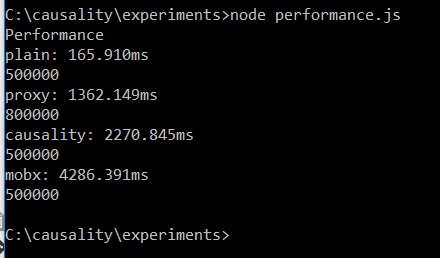
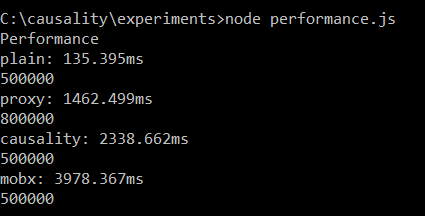
document.

Changed region(s): [[0.0, 0.0, 0.9482, 1.0]]

diff --git a/README.md b/README.md
@@ -333,7 +333,7 @@ https://gitter.im/avantgarde_web_development/Lobby
 
 # Comparison
 
-Causality could work as a replacement for MobX. Some early, and perhaps non-conclusive experiments indicate that causality could potentially be twice as fast as MobX. It also takes full advantage of ES6/proxies. Causality also offers more advanced features such as cached, reCached and withoutSideEffects. On the other hand, MobX is a more mature library with a supporting community.
+Causality could work as a replacement for MobX. Some early, and perhaps non-conclusive experiments indicate that causality could potentially be almost twice as fast as MobX. It also takes full advantage of ES6/proxies. Causality also offers more advanced features such as cached, reCached and withoutSideEffects. On the other hand, MobX is a more mature library with a large supporting community and better integration with other libraries.
 
 ![Alt text](/performance.png?raw=true "Causality Logotype")
 
